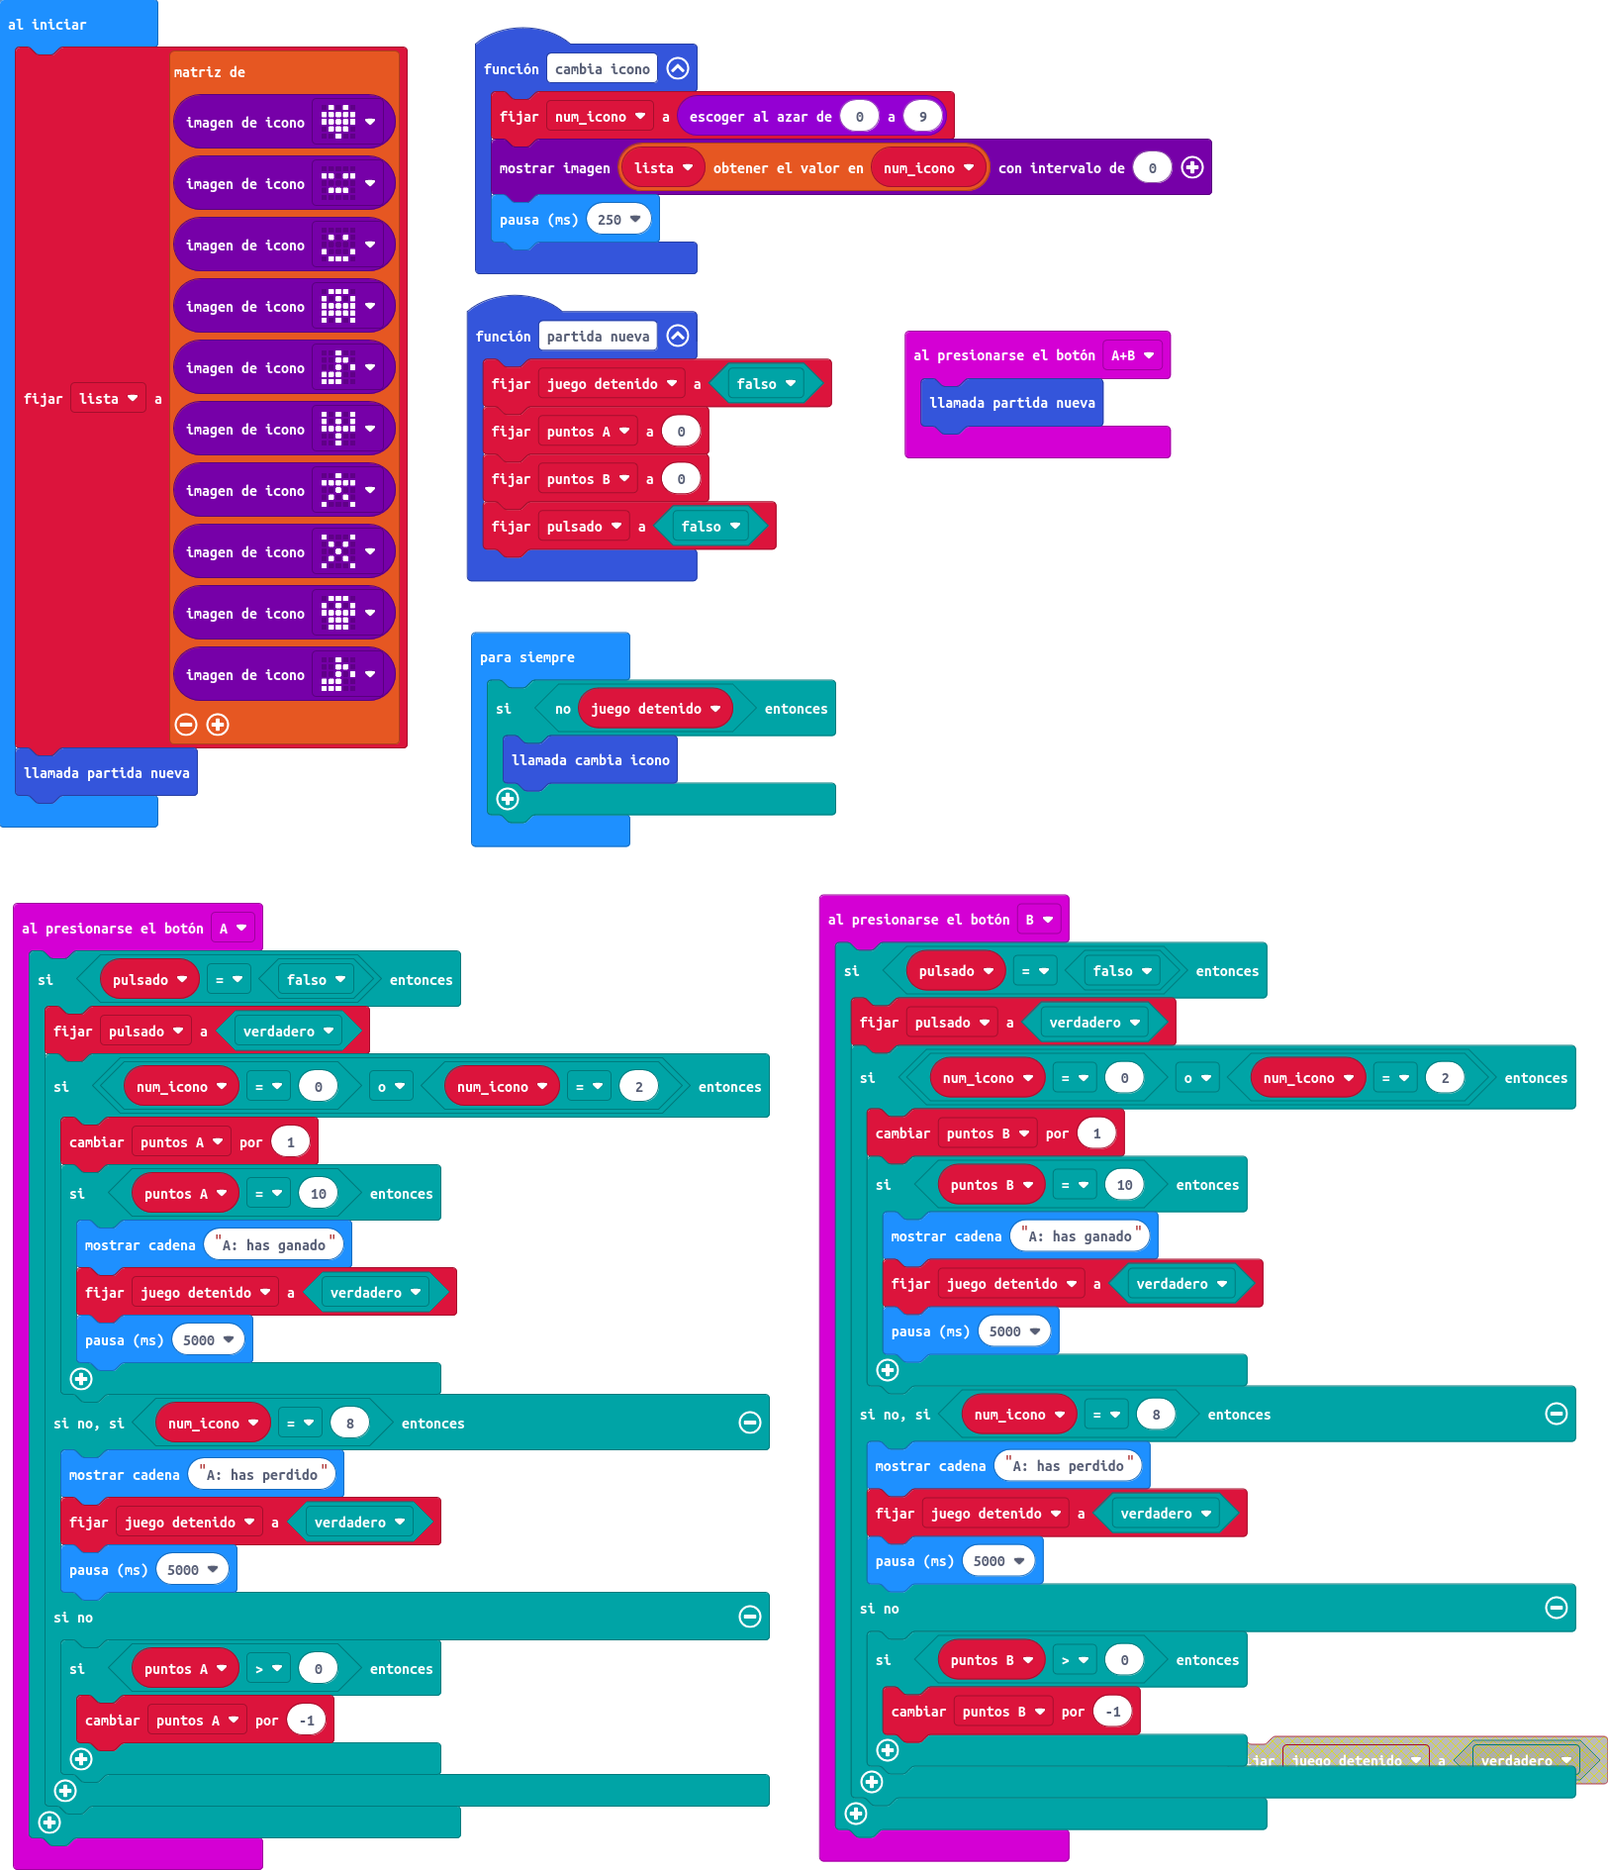
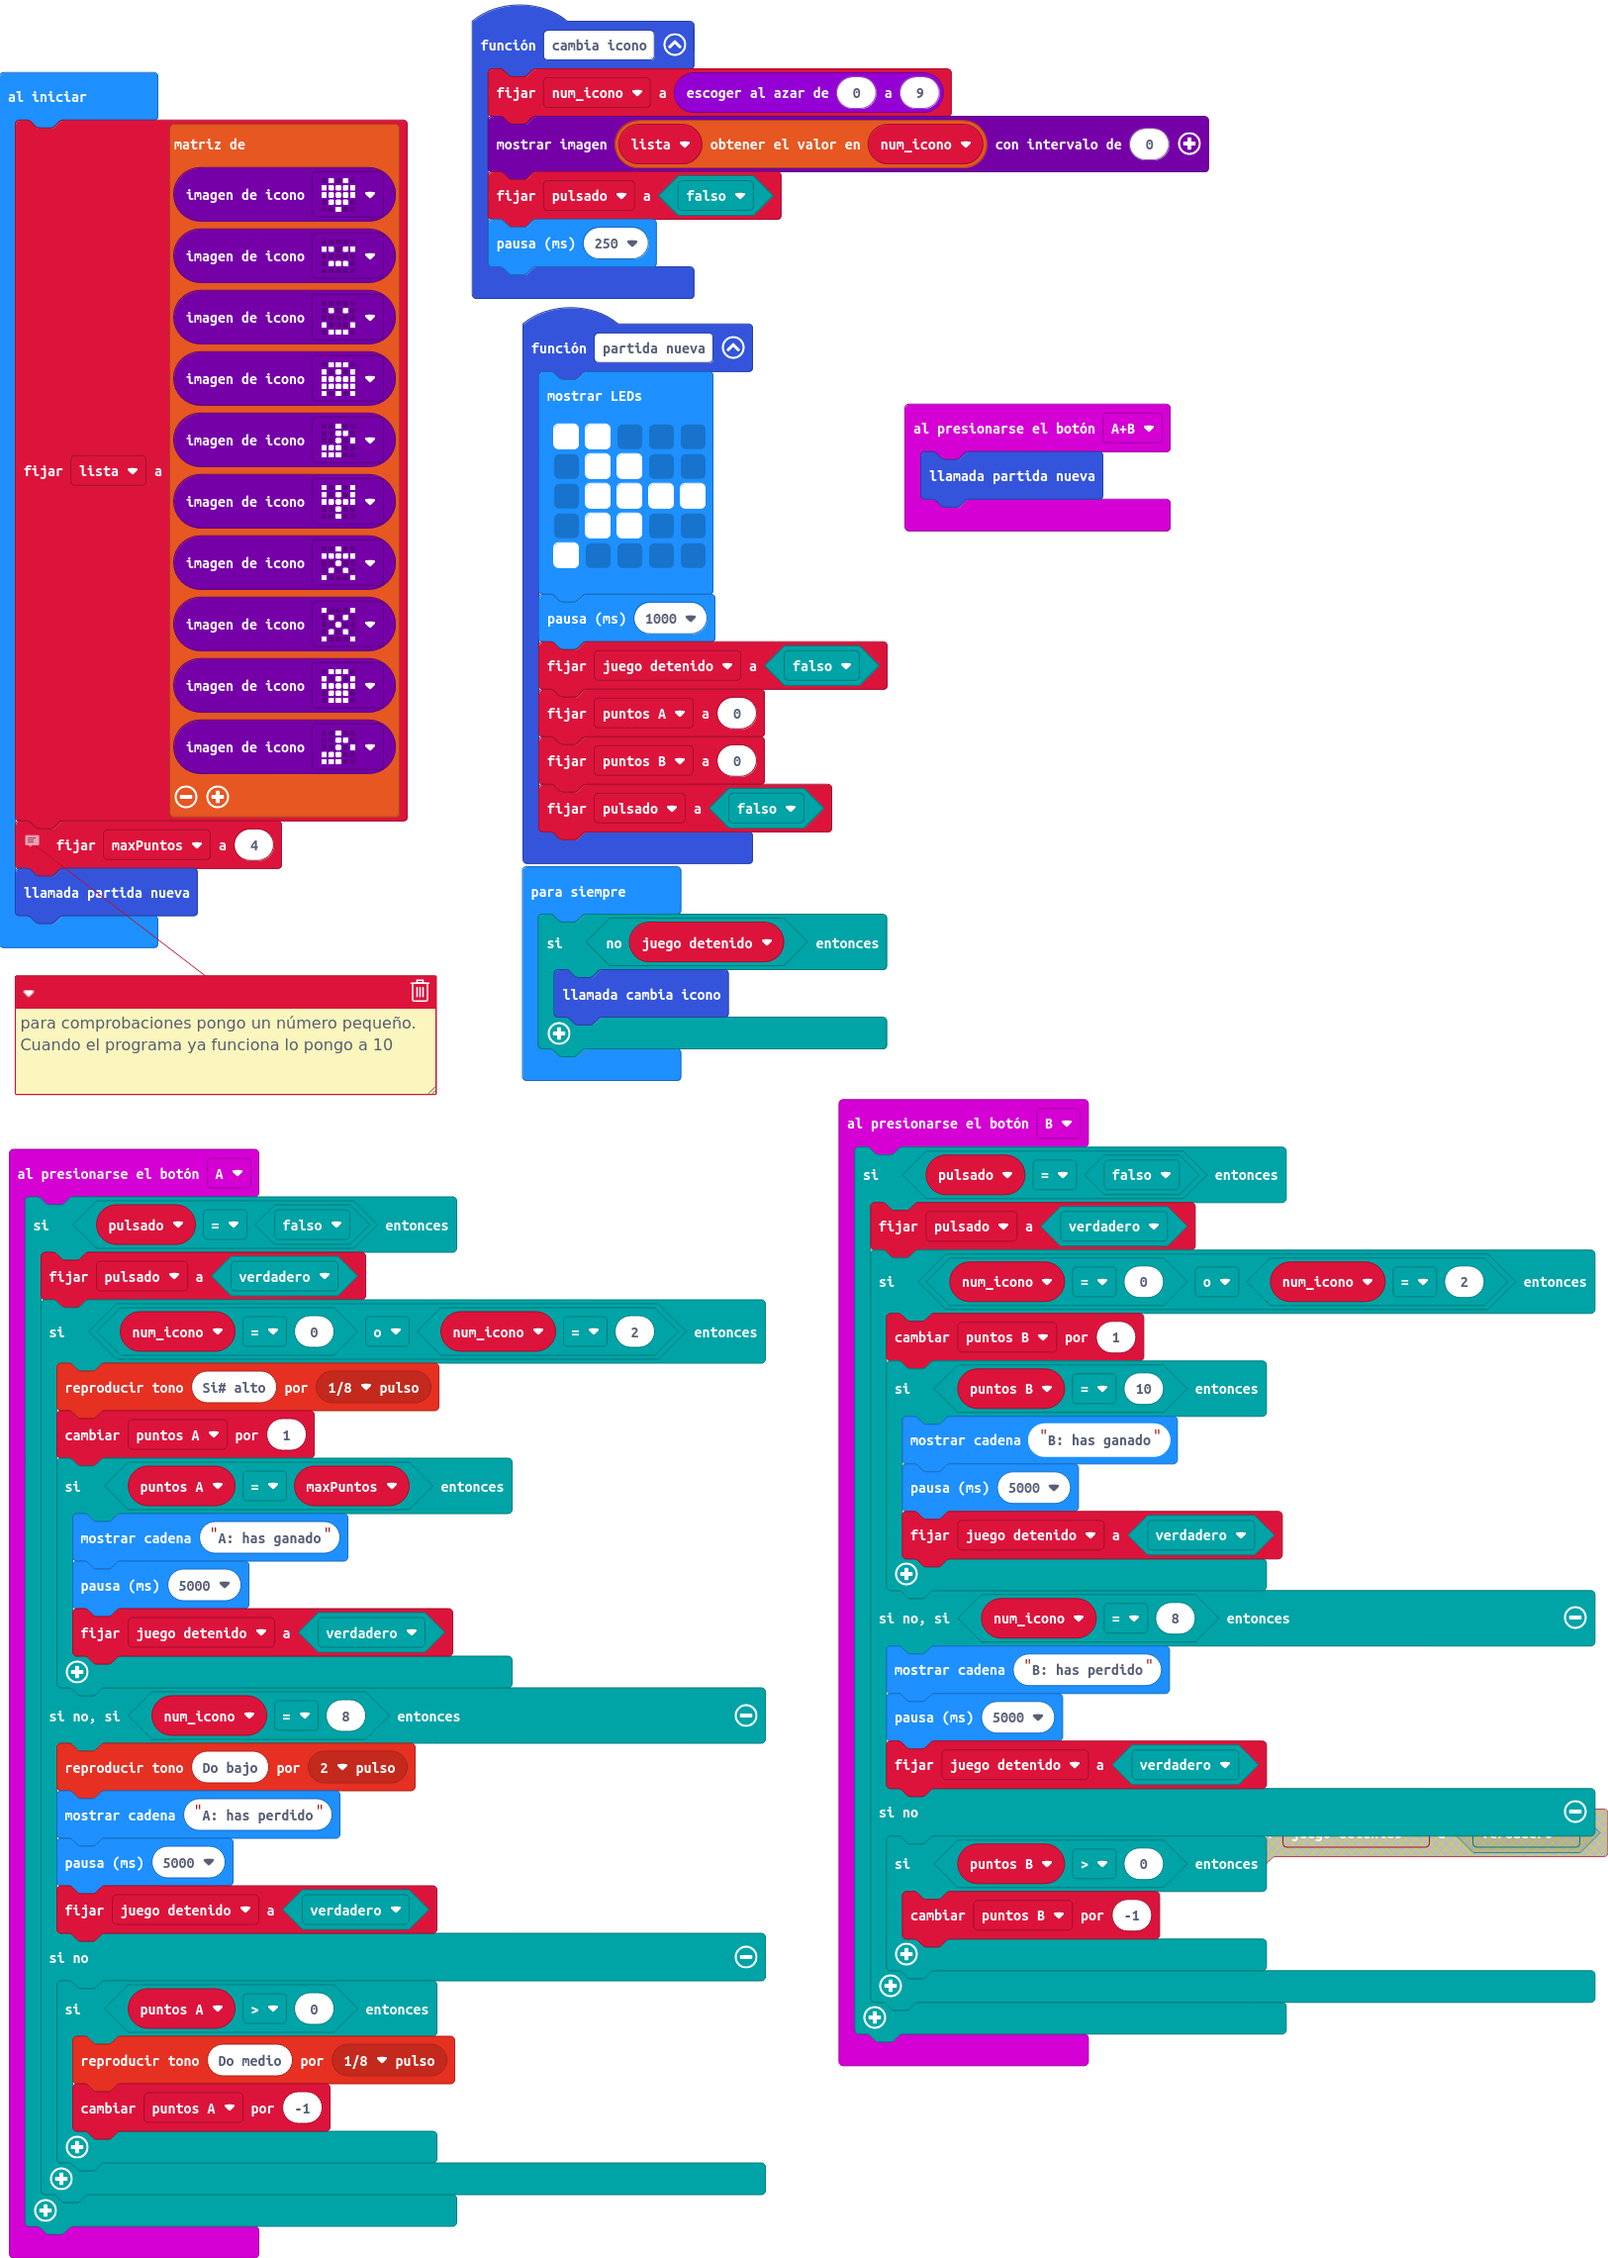
Actualizar main.blocks, main.ts

diff --git a/main.ts b/main.ts
@@ -2,24 +2,35 @@ input.onButtonPressed(Button.A, function () {
     if (pulsado == false) {
         pulsado = true
         if (num_icono == 0 || num_icono == 2) {
+            music.playTone(988, music.beat(BeatFraction.Eighth))
             puntos_A += 1
-            if (puntos_A == 10) {
+            if (puntos_A == maxPuntos) {
                 basic.showString("A: has ganado")
-                juego_detenido = true
                 basic.pause(5000)
+                juego_detenido = true
             }
         } else if (num_icono == 8) {
+            music.playTone(131, music.beat(BeatFraction.Double))
             basic.showString("A: has perdido")
-            juego_detenido = true
             basic.pause(5000)
+            juego_detenido = true
         } else {
             if (puntos_A > 0) {
+                music.playTone(262, music.beat(BeatFraction.Eighth))
                 puntos_A += -1
             }
         }
     }
 })
 function partida_nueva () {
+    basic.showLeds(`
+        # # . . .
+        . # # . .
+        . # # # #
+        . # # . .
+        # . . . .
+        `)
+    basic.pause(1000)
     juego_detenido = false
     puntos_A = 0
     puntos_B = 0
@@ -34,14 +45,14 @@ input.onButtonPressed(Button.B, function () {
         if (num_icono == 0 || num_icono == 2) {
             puntos_B += 1
             if (puntos_B == 10) {
-                basic.showString("A: has ganado")
-                juego_detenido = true
+                basic.showString("B: has ganado")
                 basic.pause(5000)
+                juego_detenido = true
             }
         } else if (num_icono == 8) {
-            basic.showString("A: has perdido")
-            juego_detenido = true
+            basic.showString("B: has perdido")
             basic.pause(5000)
+            juego_detenido = true
         } else {
             if (puntos_B > 0) {
                 puntos_B += -1
@@ -52,6 +63,7 @@ input.onButtonPressed(Button.B, function () {
 function cambia_icono () {
     num_icono = randint(0, 9)
     lista[num_icono].showImage(0)
+    pulsado = false
     basic.pause(250)
 }
 let puntos_B = 0
@@ -59,6 +71,7 @@ let juego_detenido = false
 let puntos_A = 0
 let num_icono = 0
 let pulsado = false
+let maxPuntos = 0
 let lista: Image[] = []
 lista = [
 images.iconImage(IconNames.Heart),
@@ -72,6 +85,9 @@ images.iconImage(IconNames.No),
 images.iconImage(IconNames.Skull),
 images.iconImage(IconNames.EigthNote)
 ]
+// para comprobaciones pongo un número pequeño.
+// Cuando el programa ya funciona lo pongo a 10
+maxPuntos = 4
 partida_nueva()
 basic.forever(function () {
     if (!(juego_detenido)) {
